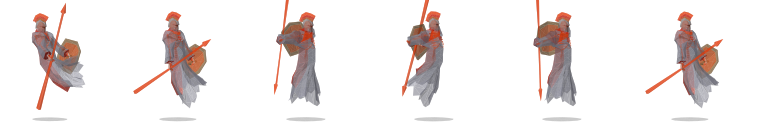
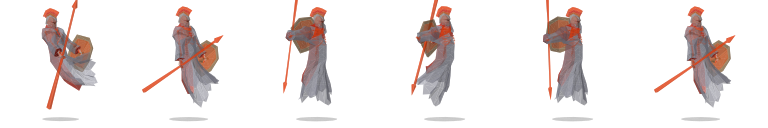
fix(anims): Cerberus's summoned souls fade on death instead of a broken upright swing
Audited the three Summoned Souls (melee/ranged/magic, NPCs 5869/5867/5868)
against the OSRS cache. Their baked "death" (seq 8524) was an upright weapon
swing that never collapses -- an attack mislabeled as a death -- so it is
dropped in all three, and the souls now fall back to the engine's ethereal
shrink-fade, matching dusk/nechryael/zulrah/hydra.

Walk (8527) and hurt (8531) are confirmed correct and are genuinely shared
across the trio in the cache: their melee/ranged/magic distinction comes from
their different models (spear / bow / staff), not the sequence, so the re-baked
walk/hurt sheets keep those ids. No spawn/emerge clip exists to bake; the
engine's fade-in covers their appearance. Cerberus (5862) untouched.

tsc + 516 tests + build green.

diff --git a/lib/game/data/enemy-anims.data.ts b/lib/game/data/enemy-anims.data.ts
@@ -1,5 +1,5 @@
 // AUTO-GENERATED by scripts/render-osrs-npc-anims.mjs + scripts/generate-enemy-anims-data.mjs.
-// Do not edit by hand — re-bake and regenerate. 40 enemies, 117 clips.
+// Do not edit by hand — re-bake and regenerate. 40 enemies, 114 clips.
 // Per-enemy animation sheets baked from the OSRS cache (walk loop + optional
 // hurt flinch + death collapse). See lib/game/data/enemy-anims.ts for the
 // playback helpers and the EnemyAnimSet contract.
@@ -306,7 +306,6 @@ export const ENEMY_ANIMS: Record<string, EnemyAnimSet> = {
     clips: {
       walk: { url: `${B}/soul_ranged/walk.png`, frames: 16, frameMs: [80, 80, 80, 80, 80, 80, 80, 80, 80, 80, 80, 60, 60, 60, 60, 80], loop: true },
       hurt: { url: `${B}/soul_ranged/hurt.png`, frames: 6, frameMs: [100, 100, 100, 100, 100, 100], loop: false },
-      death: { url: `${B}/soul_ranged/death.png`, frames: 24, frameMs: [80, 80, 80, 80, 80, 80, 80, 80, 80, 80, 80, 80, 80, 80, 80, 80, 80, 80, 80, 120, 80, 80, 80, 80], loop: false },
     },
   },
   soul_magic: {
@@ -314,7 +313,6 @@ export const ENEMY_ANIMS: Record<string, EnemyAnimSet> = {
     clips: {
       walk: { url: `${B}/soul_magic/walk.png`, frames: 16, frameMs: [80, 80, 80, 80, 80, 80, 80, 80, 80, 80, 80, 60, 60, 60, 60, 80], loop: true },
       hurt: { url: `${B}/soul_magic/hurt.png`, frames: 6, frameMs: [100, 100, 100, 100, 100, 100], loop: false },
-      death: { url: `${B}/soul_magic/death.png`, frames: 24, frameMs: [80, 80, 80, 80, 80, 80, 80, 80, 80, 80, 80, 80, 80, 80, 80, 80, 80, 80, 80, 120, 80, 80, 80, 80], loop: false },
     },
   },
   soul_melee: {
@@ -322,7 +320,6 @@ export const ENEMY_ANIMS: Record<string, EnemyAnimSet> = {
     clips: {
       walk: { url: `${B}/soul_melee/walk.png`, frames: 16, frameMs: [80, 80, 80, 80, 80, 80, 80, 80, 80, 80, 80, 60, 60, 60, 60, 80], loop: true },
       hurt: { url: `${B}/soul_melee/hurt.png`, frames: 6, frameMs: [100, 100, 100, 100, 100, 100], loop: false },
-      death: { url: `${B}/soul_melee/death.png`, frames: 24, frameMs: [80, 80, 80, 80, 80, 80, 80, 80, 80, 80, 80, 80, 80, 80, 80, 80, 80, 80, 80, 120, 80, 80, 80, 80], loop: false },
     },
   },
 };
